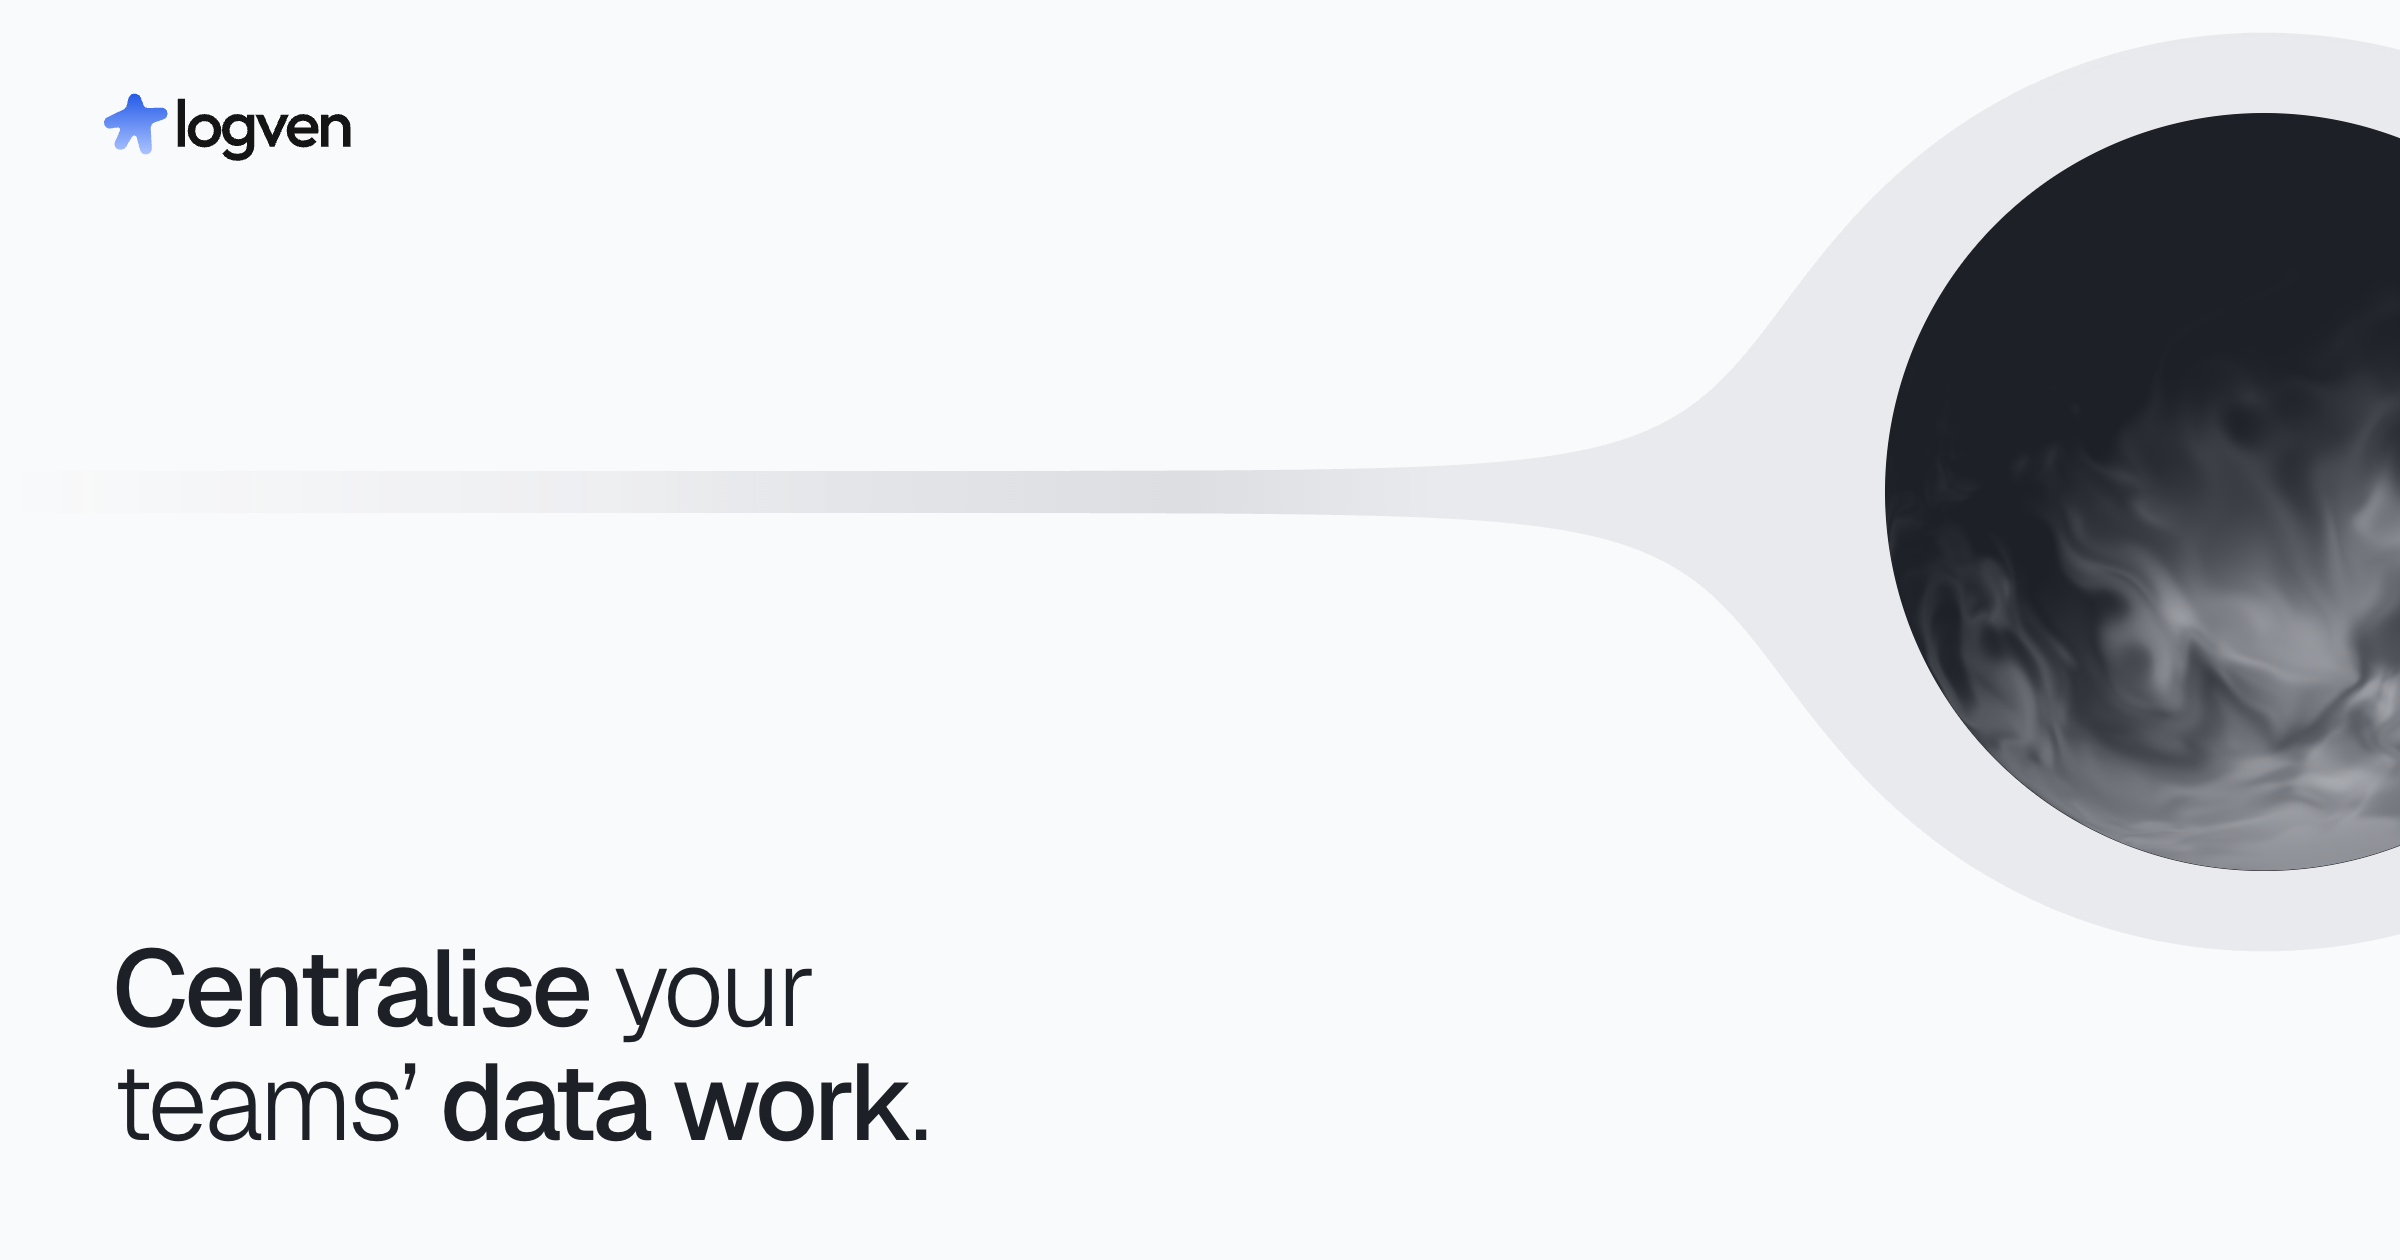
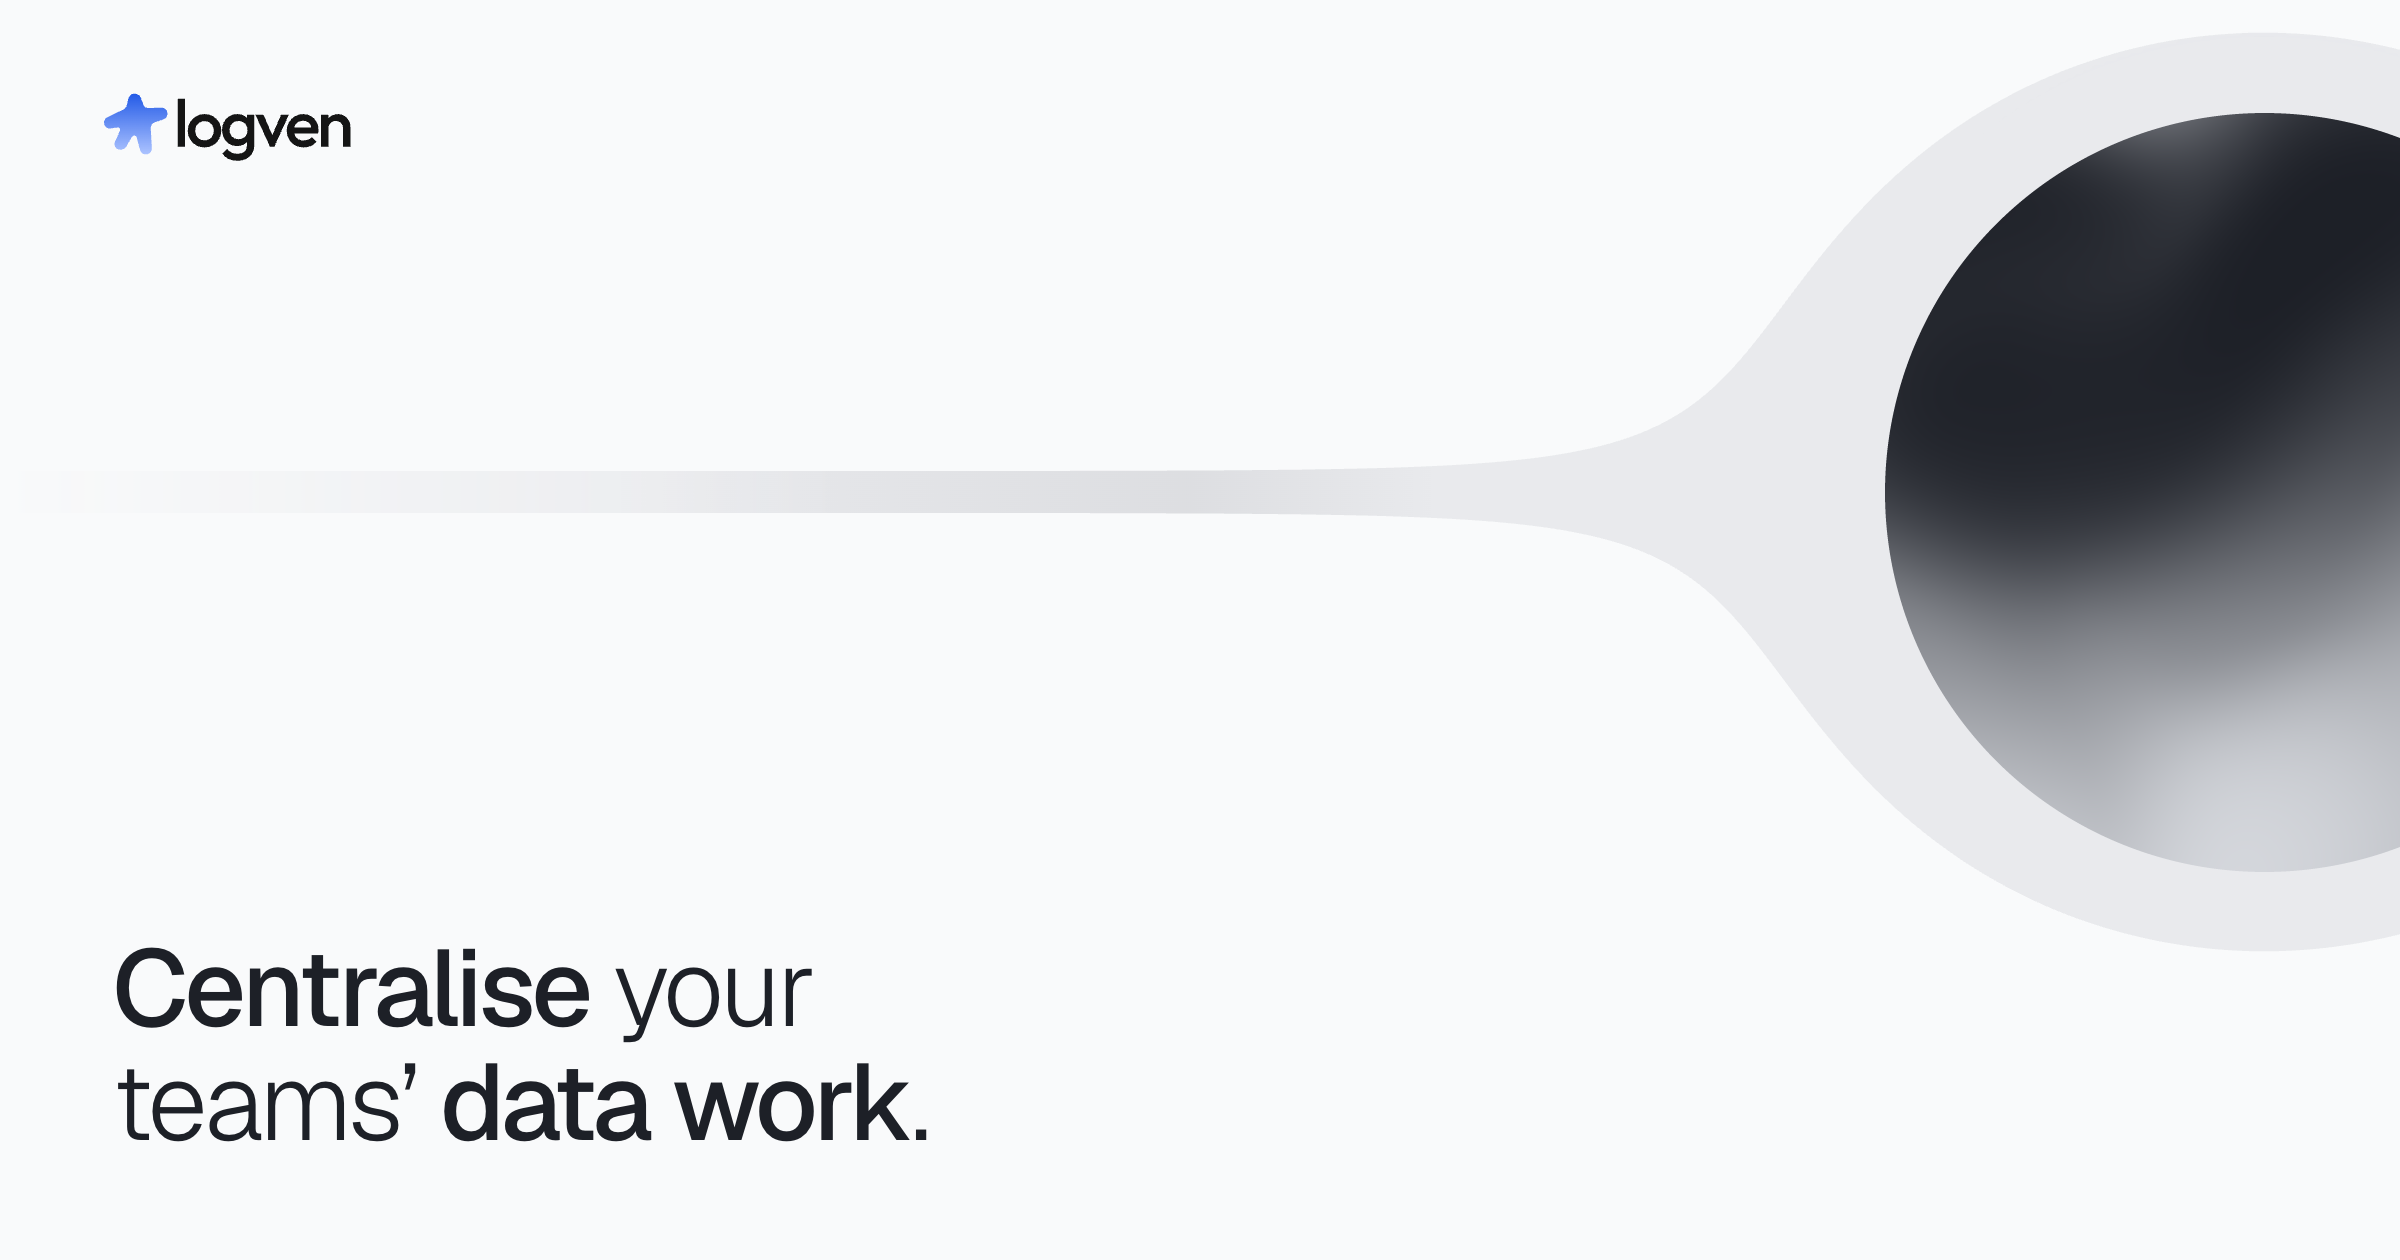
A flatter, blurrier orb
The orb drops the bend over a sphere and the darker rim, and uses two broad
noise octaves with one gentle warp, so it reads as soft, out-of-focus colour
rather than fine smoke. The light still comes from below left. The canvas
bleeds a pixel past the shape it covers, so the fallback circle's edge no
longer shows through as a thin ring. The social preview carries the new orb.

Changed region(s): [[0.7812, 0.3714, 1.0, 0.7119], [0.875, 0.0929, 0.9688, 0.1548], [0.9375, 0.3714, 0.9688, 0.4333]]

diff --git a/static/js/orb.js b/static/js/orb.js
@@ -1,4 +1,4 @@
-// The orb: smoke turning slowly inside a sphere, lit from below, like a voice assistant's orb.
+// The orb: soft, blurred colour drifting slowly inside a flat disc, lit from below left.
 // It fills the data lake's spheres: the lake, the hub in how it works and Birdseye. The tools
 // badges keep their plain black marks.
 //
@@ -20,6 +20,7 @@
 
   const reduceMotion = window.matchMedia("(prefers-reduced-motion: reduce)");
   const MAX_SCALE = 2;
+  const BLEED = 1;
 
   const vertex = `
     attribute vec2 position;
@@ -47,40 +48,34 @@
                  mix(hash(i + vec2(0.0, 1.0)), hash(i + vec2(1.0, 1.0)), u.x), u.y);
     }
 
+    // Two broad octaves only: soft, out-of-focus shapes rather than fine wisps.
     float fbm(vec2 p) {
       float value = 0.0;
-      float amplitude = 0.5;
+      float amplitude = 0.6;
       mat2 turn = mat2(0.8, 0.6, -0.6, 0.8);
-      for (int i = 0; i < 4; i++) {
+      for (int i = 0; i < 2; i++) {
         value += amplitude * noise(p);
-        p = turn * p * 2.02 + 3.1;
-        amplitude *= 0.5;
+        p = turn * p * 1.9 + 3.1;
+        amplitude *= 0.45;
       }
-      return value;
+      return value / 0.87;
     }
 
     void main() {
-      // -1 to 1 across the sphere, y up.
+      // -1 to 1 across the disc, y up. Flat: no bend over a sphere.
       vec2 p = (gl_FragCoord.xy / resolution) * 2.0 - 1.0;
       float r = length(p);
-      float t = time * 0.06;
+      float t = time * 0.05;
 
-      // Bend the plane over a sphere, so the smoke seems to wrap round it.
-      float z = sqrt(max(0.0, 1.0 - r * r));
-      vec2 q = p / (0.6 + 0.4 * z);
+      // One gentle warp at a low frequency, so the colour drifts in large, blurred masses.
+      vec2 a = vec2(fbm(p * 0.7 + vec2(t, -t * 0.7)), fbm(p * 0.7 + vec2(5.2 - t * 0.6, 1.3 + t)));
+      float density = fbm(p * 0.8 + 1.6 * a + vec2(1.7, 9.2) + t * 0.3);
 
-      // Domain warping: noise displaced by noise, twice, for slow, folding smoke.
-      vec2 a = vec2(fbm(q * 0.9 + vec2(t, -t * 0.7)), fbm(q * 0.9 + vec2(5.2 - t * 0.6, 1.3 + t)));
-      vec2 b = vec2(fbm(q * 1.0 + 2.0 * a + vec2(1.7, 9.2) + t * 0.5), fbm(q * 1.0 + 2.0 * a + vec2(8.3, 2.8) - t * 0.4));
-      float density = fbm(q * 0.8 + 2.4 * b);
-
-      // Light from below left: the smoke is strongest there and fades into the base at the top.
+      // Light from below left: the colour is strongest there and fades into the base at the top.
+      // A wide ramp, so nothing inside has a hard edge.
       float light = smoothstep(0.9, -0.9, p.y * 0.85 - p.x * 0.35);
-      float shade = pow(smoothstep(0.3, 0.9, density + 0.6 * light - 0.2), 1.15);
+      float shade = smoothstep(0.2, 1.0, density + 0.6 * light - 0.2);
       vec3 colour = mix(base, smoke, shade);
-
-      // The edge settles back into the base, so the sphere reads round.
-      colour = mix(colour, base, smoothstep(0.55, 1.0, r) * 0.4);
 
       // A crisp, anti-aliased edge; outside the circle stays transparent.
       float edge = 1.0 - smoothstep(1.0 - 2.0 / resolution.x, 1.0, r);
@@ -147,17 +142,20 @@
     const outer = frame.getBoundingClientRect();
     const box = target.getBoundingClientRect();
     if (!box.width) return false;
-    const left = box.left - outer.left - frame.clientLeft;
-    const top = box.top - outer.top - frame.clientTop;
-    const key = `${left.toFixed(1)} ${top.toFixed(1)} ${box.width.toFixed(1)}`;
+    // A pixel of bleed on every side, so the shape's soft edge stays under the orb's solid one
+    // instead of showing through as a thin ring.
+    const left = box.left - outer.left - frame.clientLeft - BLEED;
+    const top = box.top - outer.top - frame.clientTop - BLEED;
+    const width = box.width + 2 * BLEED;
+    const key = `${left.toFixed(1)} ${top.toFixed(1)} ${width.toFixed(1)}`;
     if (key !== orb.box) {
       orb.box = key;
       canvas.style.left = `${left}px`;
       canvas.style.top = `${top}px`;
-      canvas.style.width = `${box.width}px`;
-      canvas.style.height = `${box.width}px`;
+      canvas.style.width = `${width}px`;
+      canvas.style.height = `${width}px`;
     }
-    const size = Math.max(1, Math.round(box.width * Math.min(window.devicePixelRatio || 1, MAX_SCALE)));
+    const size = Math.max(1, Math.round(width * Math.min(window.devicePixelRatio || 1, MAX_SCALE)));
     if (canvas.width !== size) {
       canvas.width = size;
       canvas.height = size;
